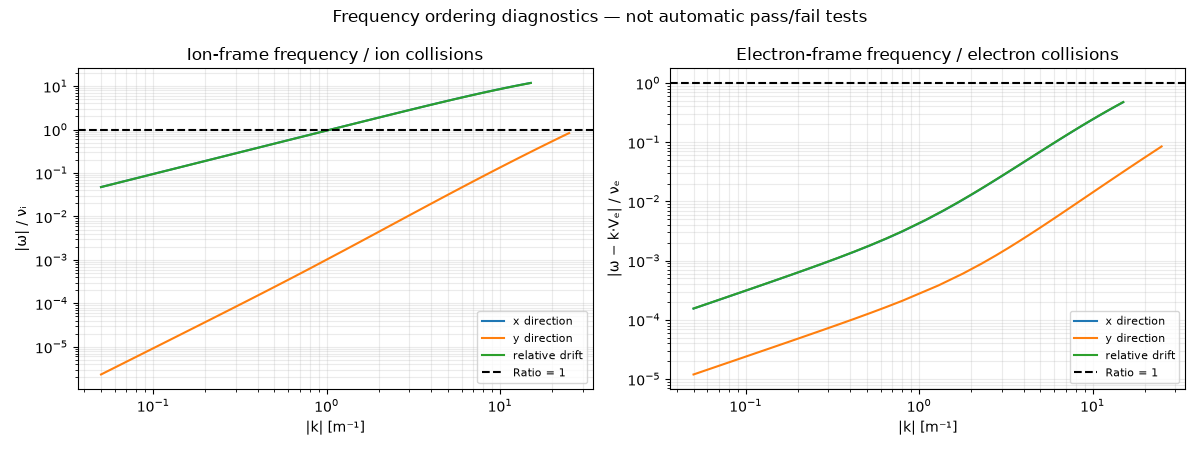
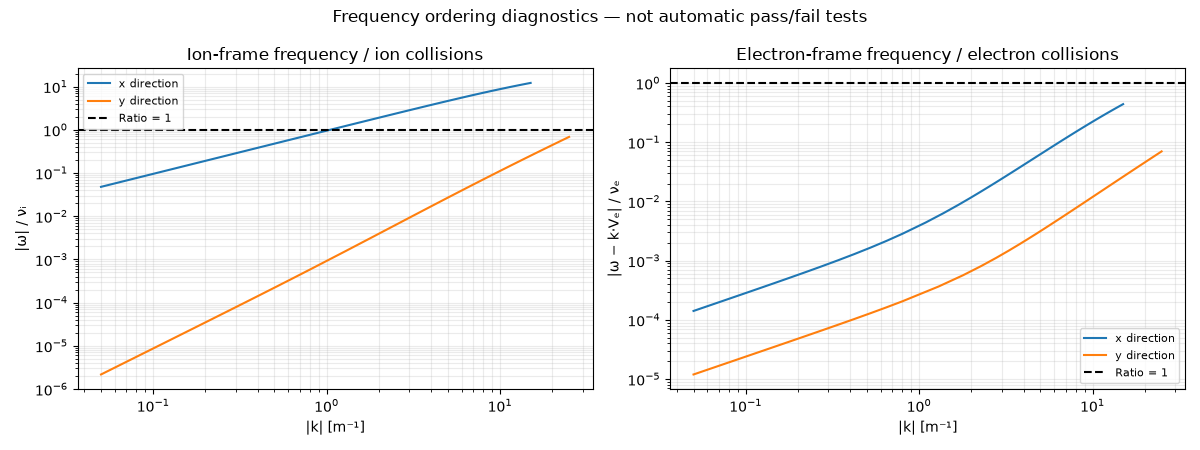
Add diagnostics, removed unnecessary code in root.py simplified plotting syntax for interpret_eq73.py

diff --git a/interpret_eq73.py b/interpret_eq73.py
@@ -343,48 +343,32 @@ def plot_branch_diagnostics(results, run):
     for row, (name, direction, data) in enumerate(results):
         k = data["k"]
         omega = data["omega"]
-        highest = data["highest"]
 
         ax = axes[row, 0]
-        ax.plot(k, omega.real, label="Tracked branch")
-        ax.plot(
-            k,
-            highest.real,
-            "--",
-            alpha=0.75,
-            label="Highest-growth candidate",
-        )
+        ax.plot(k, omega.real)
         ax.set_ylabel(f"{name}\nRe(ω) [rad/s]")
         ax.set_title("Real frequency")
-        ax.legend(fontsize=8)
 
         ax = axes[row, 1]
-        ax.plot(k, omega.imag, label="Tracked branch")
-        ax.plot(
-            k,
-            highest.imag,
-            "--",
-            alpha=0.75,
-            label="Highest growth found",
-        )
+        ax.plot(k, omega.imag)
         ax.axhline(0, color="black", lw=0.8)
 
         suspicious = (
             data["predictor_error"] > JUMP_WARNING
         ) & (np.arange(len(k)) > 0)
 
-        ax.scatter(
-            k[suspicious],
-            omega.imag[suspicious],
-            color="red",
-            marker="x",
-            label="Large predictor error",
-            zorder=5,
-        )
+        if np.any(suspicious):
+            ax.scatter(
+                k[suspicious],
+                omega.imag[suspicious],
+                color="red",
+                marker="x",
+                label="Large predictor error",
+                zorder=5,
+            )
 
         ax.set_ylabel("Im(ω) [s⁻¹]")
         ax.set_title("Growth / damping")
-        ax.legend(fontsize=8)
 
         # Show only the small-k portion for scaling checks.
         small = k <= min(0.8, k[-1])
@@ -396,7 +380,7 @@ def plot_branch_diagnostics(results, run):
             "o-",
         )
         ax.set_ylabel("Re(ω) / k [m/s]")
-        ax.set_title("Small-k phase-speed check")
+        ax.set_title("Small-k phase-speed")
 
         ax = axes[row, 3]
         ax.semilogx(
@@ -406,16 +390,12 @@ def plot_branch_diagnostics(results, run):
         )
         ax.axhline(0, color="black", lw=0.8)
         ax.set_ylabel("Im(ω) / k² [m²/s]")
-        ax.set_title("Small-k growth-scaling check")
+        ax.set_title("Small-k growth-scaling")
 
         for ax in axes[row]:
             ax.set_xlabel("|k| [m⁻¹]")
             ax.grid(alpha=0.25)
 
-    fig.suptitle(
-        f"Eq. 73 branch diagnostics — {C.alt_eff[run]:g} km",
-        fontsize=15,
-    )
     fig.tight_layout(rect=[0, 0, 1, 0.96])
 
 
@@ -457,9 +437,6 @@ def plot_frequency_ratios(results, run):
         ax.grid(alpha=0.25, which="both")
         ax.legend(fontsize=8)
 
-    fig.suptitle(
-        "Frequency ordering diagnostics — not automatic pass/fail tests"
-    )
     fig.tight_layout()
 
 
@@ -469,19 +446,15 @@ def plot_frequency_ratios(results, run):
 
 def main():
     ve, ui = equilibrium_drifts(RUN)
-    relative = ve - ui
-    relative_direction = relative / np.linalg.norm(relative)
 
     directions = [
         ("x direction", np.array([1.0, 0.0])),
         ("y direction", np.array([0.0, 1.0])),
-        ("relative drift", relative_direction),
     ]
 
     print(f"Altitude: {C.alt_eff[RUN]:g} km")
     print(f"Electron drift: {ve} m/s")
     print(f"Ion drift:      {ui} m/s")
-    print(f"Relative drift: {relative} m/s")
     print(f"Ion collisions:      {C.nu_i[RUN]:.6g} s^-1")
     print(f"Electron collisions: {C.nu_e[RUN]:.6g} s^-1")
 
@@ -504,9 +477,9 @@ def main():
         results.append((name, direction, data))
 
     plot_branch_diagnostics(results, RUN)
-    plt.savefig("diagnostics")
+    plt.savefig("diagnostics_104")
     plot_frequency_ratios(results, RUN)
-    plt.savefig("frequency_ratios")
+    plt.savefig("frequency_ratios_104")
     plt.show()
 
 

diff --git a/root.py b/root.py
@@ -9,15 +9,7 @@ from scipy.special import wofz
 from constants import *
 
 
-def Z_tilde(z, omega_i=None):
-    """
-    ASSUMPTION: Z_tilde is the standard plasma dispersion function.
-
-        Z(z) = i * sqrt(pi) * wofz(z)
-
-    omega_i is accepted for compatibility with eq73.py, but is not used.
-    Replace this function if your model defines a modified Z_tilde.
-    """
+def Z_tilde(z):
     with np.errstate(over="ignore", invalid="ignore"):
         return 1j * np.sqrt(np.pi) * wofz(z)
 
@@ -211,7 +203,6 @@ def contour_plot(
     kx_vals,
     ky_vals,
     altitude,
-    pts=None,
     run=0,
     positive_only=True,
 ):
@@ -220,8 +211,6 @@ def contour_plot(
 
     Assumes perturbations vary as exp(i*k·r - i*omega*t), so Im(omega) > 0
     indicates growth.
-
-    pts is accepted for compatibility with your existing eq73.py.
     """
     kx_vals = np.asarray(kx_vals, dtype=float)
     ky_vals = np.asarray(ky_vals, dtype=float)

diff --git a/eq73.py b/eq73.py
@@ -53,8 +53,8 @@ def eq_73(omega, k_x, k_y, run):
     # The denominator natively includes lambda_D_sq but no k^2 in the numerator, 
     # effectively evaluating the unnormalized ion susceptibility (chi_i)
     chi_i_part1 = V_Tn**2 / (lambda_D_sq * beta_T * den1)
-    part2 = 1.0 / (1.0 + (1j * nu_i[run] / sqrt_den1) * Z_tilde(z1, omega_i))
-    part3 = 1.0 + ((omega_i - k_dot_U0) / sqrt_den2) * Z_tilde(z2, omega_i)
+    part2 = 1.0 / (1.0 + (1j * nu_i[run] / sqrt_den1) * Z_tilde(z1))
+    part3 = 1.0 + ((omega_i - k_dot_U0) / sqrt_den2) * Z_tilde(z2)
     
     chi_i = chi_i_part1 * part2 * part3
 
@@ -78,7 +78,6 @@ if __name__ == "__main__":
             kx_vals,
             ky_vals,
             alt_eff[i],
-            pts,
             run=i,
             positive_only=False,
         )
